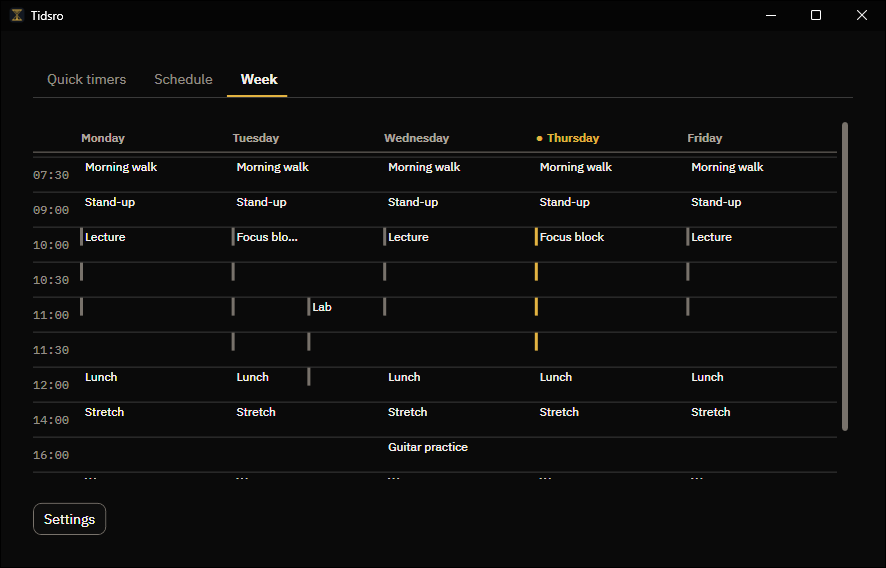
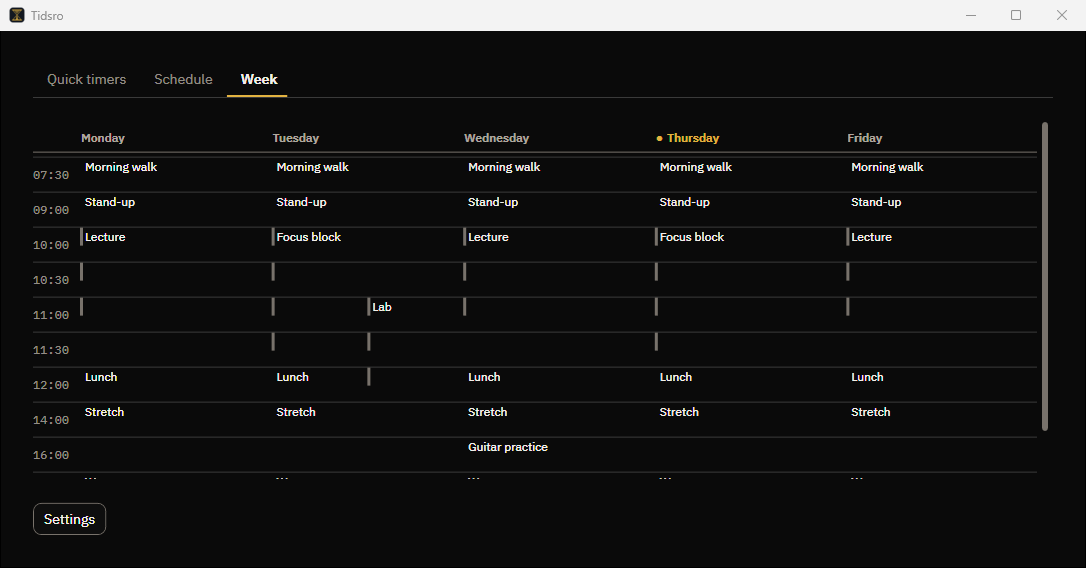
fix: hold a timetable lane to a readable width
Spec section 6 asked for a 90px minimum lane and v2.4.0 shipped without it:
the grid/agenda flip was a flat 760 whatever the week held, so a two-lane
Tuesday at a 900px window gave each lane 76px and drew "Focus blo...". Three
lanes would have left 50.

The threshold is now the week's own: RequiredGridWidth takes the widest day
the grid draws and the number of columns it draws, and asks for 90px per lane
in every one of them -- the columns are a UniformGrid, so the widest day sets
what all of them need. Never below 760, so a week without an overlap flips
exactly where it always did. Below it the agenda draws, which lists every
alarm and reads at any size.

The chrome constant is measured, not guessed: at a 900px window the panel is
822 wide, the gutter takes 46 and the scroll bar 16, leaving 760 for five
columns. The plan's shorthand -- 760 + (lanes-1) * 90 * 5 -- hardcodes five
columns and treats the baseline as if it only afforded 90px lanes, which
overshoots by about 250px and withholds the grid where two lanes do fit.

Driven at four widths against the fixture: two lanes flip to the agenda at
1043 and back to a readable grid at 1044, exactly where the arithmetic says,
and a one-lane week at 900 is untouched. The week screenshot was shot at 900
and would now capture the agenda, so the rig shoots it at 1100.

diff --git a/src/Tidsro/Views/MainWindow.xaml b/src/Tidsro/Views/MainWindow.xaml
@@ -657,8 +657,17 @@
                the exception and always draws, because a week view that silently omits the day you
                are standing in is worse than one empty heading. ShowInAgenda decides that in the
                model, where it is tested, rather than in a converter here. -->
-          <ItemsControl Focusable="False" ItemsSource="{Binding Timetable.Week.Days}"
-                        Visibility="{Binding ActualWidth, ElementName=Panels, Converter={StaticResource WidthToVisible}, ConverterParameter=Narrow}">
+          <ItemsControl Focusable="False" ItemsSource="{Binding Timetable.Week.Days}">
+            <ItemsControl.Visibility>
+              <!-- The grid's width is not a constant: a day with overlapping blocks divides its
+                   column into lanes, and a lane too narrow to hold a label is worse than no grid.
+                   RequiredGridWidth decides, in the model, from the week's own widest day. -->
+              <MultiBinding Converter="{StaticResource WidthToVisible}" ConverterParameter="Narrow">
+                <Binding Path="ActualWidth" ElementName="Panels"/>
+                <Binding Path="Timetable.Week.MaxLaneCount"/>
+                <Binding Path="Timetable.Week.GridColumnCount"/>
+              </MultiBinding>
+            </ItemsControl.Visibility>
             <ItemsControl.ItemContainerStyle>
               <!-- Both setters belong on the container. The name because a Border at the root of a
                    DataTemplate gets no automation peer; the visibility because collapsing an inner
@@ -772,8 +781,15 @@
 
                No arithmetic here: TimetableLayout.Build already decided which row each alarm is
                in, and this draws the rows it was handed. -->
-          <StackPanel Grid.IsSharedSizeScope="True"
-                      Visibility="{Binding ActualWidth, ElementName=Panels, Converter={StaticResource WidthToVisible}, ConverterParameter=Wide}">
+          <StackPanel Grid.IsSharedSizeScope="True">
+            <StackPanel.Visibility>
+              <!-- The other half of the same decision — see the agenda's binding above. -->
+              <MultiBinding Converter="{StaticResource WidthToVisible}" ConverterParameter="Wide">
+                <Binding Path="ActualWidth" ElementName="Panels"/>
+                <Binding Path="Timetable.Week.MaxLaneCount"/>
+                <Binding Path="Timetable.Week.GridColumnCount"/>
+              </MultiBinding>
+            </StackPanel.Visibility>
 
             <!-- Day headers. The same two-column shape as a row, with the gutter column in the same
                  shared-size group, so the headers sit over the columns they name however wide the

diff --git a/tests/Tidsro.Tests/WidthToVisibleConverterTests.cs b/tests/Tidsro.Tests/WidthToVisibleConverterTests.cs
@@ -1,5 +1,6 @@
-using System.Globalization;
+using System.Globalization;
 using System.Windows;
+using Tidsro.Models;
 using Tidsro.Views;
 using Xunit;
 
@@ -7,34 +8,56 @@ namespace Tidsro.Tests;
 
 public class WidthToVisibleConverterTests
 {
-    private static object Convert(object? value, string? parameter) =>
-        new WidthToVisibleConverter().Convert(value, typeof(Visibility), parameter, CultureInfo.InvariantCulture);
+    private const double Base = TimetableLayout.MinimumGridWidth;
+
+    private static object Convert(object width, string? parameter, int lanes = 1, int columns = 5) =>
+        new WidthToVisibleConverter().Convert(
+            new[] { width, lanes, (object)columns }, typeof(Visibility), parameter, CultureInfo.InvariantCulture);
 
     [Fact]
     public void Wide_shows_at_the_threshold()
-        => Assert.Equal(Visibility.Visible, Convert(760d, "Wide"));
+        => Assert.Equal(Visibility.Visible, Convert(Base, "Wide"));
 
     [Fact]
     public void Wide_hides_below_the_threshold()
-        => Assert.Equal(Visibility.Collapsed, Convert(759d, "Wide"));
+        => Assert.Equal(Visibility.Collapsed, Convert(Base - 1, "Wide"));
 
     [Fact]
     public void Narrow_shows_below_the_threshold()
-        => Assert.Equal(Visibility.Visible, Convert(759d, "Narrow"));
+        => Assert.Equal(Visibility.Visible, Convert(Base - 1, "Narrow"));
 
     [Fact]
     public void Narrow_hides_at_the_threshold()
-        => Assert.Equal(Visibility.Collapsed, Convert(760d, "Narrow"));
+        => Assert.Equal(Visibility.Collapsed, Convert(Base, "Narrow"));
+
+    [Fact]
+    public void A_second_lane_raises_the_width_the_grid_asks_for()
+    {
+        // A width that draws a one-lane week draws two lanes at ~70px each, which is a bar with no
+        // label. The agenda lists the same alarms and reads at any width, so it takes over.
+        Assert.Equal(Visibility.Collapsed, Convert(Base, "Wide", lanes: 2));
+        Assert.Equal(Visibility.Visible, Convert(Base, "Narrow", lanes: 2));
+    }
+
+    [Fact]
+    public void The_grid_returns_once_two_lanes_fit()
+    {
+        var needed = TimetableLayout.RequiredGridWidth(2, 5);
+
+        Assert.Equal(Visibility.Visible, Convert(needed, "Wide", lanes: 2));
+        Assert.Equal(Visibility.Collapsed, Convert(needed - 1, "Wide", lanes: 2));
+    }
 
     [Fact]
     public void Exactly_one_side_is_visible_at_any_width()
     {
-        foreach (var width in new[] { 0d, 380d, 759d, 760d, 1200d })
-        {
-            var wide = Convert(width, "Wide");
-            var narrow = Convert(width, "Narrow");
-            Assert.NotEqual(wide, narrow);
-        }
+        foreach (var width in new[] { 0d, 380d, Base - 1, Base, 1200d, 2400d })
+            foreach (var lanes in new[] { 1, 2, 3 })
+            {
+                var wide = Convert(width, "Wide", lanes);
+                var narrow = Convert(width, "Narrow", lanes);
+                Assert.NotEqual(wide, narrow);
+            }
     }
 
     [Fact]
@@ -45,11 +68,27 @@ public class WidthToVisibleConverterTests
     }
 
     [Fact]
+    public void A_binding_that_has_not_produced_values_yet_falls_back_to_narrow()
+    {
+        // MultiBinding hands over DependencyProperty.UnsetValue until every source has resolved.
+        var values = new object[] { DependencyProperty.UnsetValue, DependencyProperty.UnsetValue, DependencyProperty.UnsetValue };
+        var converter = new WidthToVisibleConverter();
+
+        Assert.Equal(
+            Visibility.Visible,
+            converter.Convert(values, typeof(Visibility), "Narrow", CultureInfo.InvariantCulture));
+        Assert.Equal(
+            Visibility.Collapsed,
+            converter.Convert(values, typeof(Visibility), "Wide", CultureInfo.InvariantCulture));
+    }
+
+    [Fact]
     public void An_unknown_parameter_collapses()
-        => Assert.Equal(Visibility.Collapsed, Convert(900d, "Sideways"));
+        => Assert.Equal(Visibility.Collapsed, Convert(2400d, "Sideways"));
 
     [Fact]
     public void ConvertBack_is_not_supported()
         => Assert.Throws<NotSupportedException>(() =>
-            new WidthToVisibleConverter().ConvertBack(Visibility.Visible, typeof(double), "Wide", CultureInfo.InvariantCulture));
+            new WidthToVisibleConverter().ConvertBack(
+                Visibility.Visible, new[] { typeof(double) }, "Wide", CultureInfo.InvariantCulture));
 }

diff --git a/src/Tidsro/Models/TimetableLayout.cs b/src/Tidsro/Models/TimetableLayout.cs
@@ -199,6 +199,25 @@ public sealed record TimetableWeek(
     /// <see cref="Days"/> minus the weekend or nothing at all, so there is no third state to keep
     /// in step.</summary>
     public bool HidesWeekend => GridDays.Count < Days.Count;
+
+    /// <summary>How many columns the wide grid draws. Five on a week with a free weekend, seven
+    /// otherwise — the number a lane's readable width has to be bought in, since every column is the
+    /// same width.</summary>
+    public int GridColumnCount => GridDays.Count;
+
+    /// <summary>The most lanes any drawn column divides itself into, and therefore what decides
+    /// whether the grid still reads. Taken from the days the grid actually draws: a lane count on a
+    /// weekend column that was dropped would ask the window for width nothing spends.</summary>
+    public int MaxLaneCount
+    {
+        get
+        {
+            var most = 1;
+            foreach (var day in GridDays)
+                if (day.LaneCount > most) most = day.LaneCount;
+            return most;
+        }
+    }
 }
 
 /// <summary>
@@ -383,6 +402,40 @@ public static class TimetableLayout
     /// Three keeps a lane readable and keeps a hostile file from becoming a grid with thousands of
     /// columns in every cell. What does not fit is counted, and the agenda still lists all of it.</summary>
     public const int MaxLanes = 3;
+
+    /// <summary>The width the wide grid needs before it is worth drawing at all, with one lane per
+    /// column. Below it the agenda draws instead.</summary>
+    public const double MinimumGridWidth = 760;
+
+    /// <summary>What one lane needs to still show a label rather than an ellipsis. Phase 1 already
+    /// had to keep a time out of a hundred-pixel column for the same reason; splitting that column
+    /// three ways leaves about 33px, which is a bar with no words on it — unreadable first for low
+    /// vision and then for everyone.</summary>
+    public const double MinimumLaneWidth = 90;
+
+    /// <summary>What the grid spends on itself before any column gets a pixel: the time gutter and
+    /// the scroll bar. Measured off the shipped rendering rather than guessed — at a 900px window
+    /// the panel is 822 wide (the window's 32px padding each side), the gutter takes 46 and the
+    /// scroll bar 16, leaving 760 for five columns. The gutter is Auto-width but every label it can
+    /// hold is "HH:MM", so it does not move.</summary>
+    public const double GridChromeWidth = 64;
+
+    /// <summary>How wide the panel has to be before the grid is worth drawing at this many lanes.
+    /// Every column is the same width, so the widest day sets what all of them need: the columns
+    /// share what is left after the chrome, and each has to fit its lanes at
+    /// <see cref="MinimumLaneWidth"/> apiece. Below that the agenda takes over — it lists every
+    /// alarm and reads at any size, which is why it is the right thing to fall back to.
+    ///
+    /// <para>The lane count is clamped to <see cref="MaxLanes"/> because that is all the grid ever
+    /// draws: a hand-edited file with fifty overlapping alarms must not be able to ask for a window
+    /// no monitor has. Never below <see cref="MinimumGridWidth"/>, so a week without a single
+    /// overlap flips exactly where it always did. Pure, and here rather than in the converter for
+    /// the reason all the layout arithmetic is here — this is where tests reach it.</para></summary>
+    public static double RequiredGridWidth(int laneCount, int columnCount) =>
+        Math.Max(
+            MinimumGridWidth,
+            GridChromeWidth
+            + Math.Max(columnCount, 0) * Math.Clamp(laneCount, 1, MaxLanes) * MinimumLaneWidth);
 
     /// <summary>Whether this entry is happening now. Start inclusive, end exclusive, so a block that
     /// ends at 10:30 stops being current the moment 10:30 arrives and the next one can take over

diff --git a/src/Tidsro/Views/Converters.cs b/src/Tidsro/Views/Converters.cs
@@ -96,15 +96,27 @@ public sealed class WidthToMeasureConverter : IValueConverter
 /// The Week tab draws an agenda when narrow and a seven-column grid when wide; both panels exist,
 /// and this collapses the one that does not fit. Same mechanism as IndexToVisibleConverter, which
 /// already swaps the tab panels, and it reads the same ActualWidth WidthToMeasureConverter does.
-/// A width WPF has not measured yet arrives as NaN — that falls back to Narrow, which is the
-/// rendering that works at any size.</summary>
-public sealed class WidthToVisibleConverter : IValueConverter
+///
+/// <para>The width the grid asks for is not a constant: a day whose blocks overlap divides its
+/// column into lanes, and a lane that has shrunk to a bar with no label is worse than no grid at
+/// all. So the threshold is <see cref="TimetableLayout.RequiredGridWidth"/> of the week's own
+/// widest day, and a window too narrow for those lanes shows the agenda — which lists every alarm
+/// and reads at any size.</para>
+///
+/// <para>A multi-value converter for the same reason LaneBarStateConverter is one: the answer needs
+/// the width and the shape of the week, and only the width changes while the window is open. It
+/// carries no rule of its own. Anything the bindings have not resolved yet — an unmeasured
+/// ActualWidth arrives as NaN, an unready MultiBinding source as UnsetValue — falls back to Narrow,
+/// which is the rendering that works at any size.</para></summary>
+public sealed class WidthToVisibleConverter : IMultiValueConverter
 {
-    public const double Threshold = 760;
-
-    public object Convert(object? v, Type t, object? p, CultureInfo c)
+    public object Convert(object[] values, Type t, object? p, CultureInfo c)
     {
-        var wide = v is double available && !double.IsNaN(available) && available >= Threshold;
+        var available = values is [double w, ..] ? w : double.NaN;
+        var lanes = values is [_, int l, ..] ? l : 1;
+        var columns = values is [_, _, int n, ..] ? n : 0;
+
+        var wide = !double.IsNaN(available) && available >= TimetableLayout.RequiredGridWidth(lanes, columns);
         return p switch
         {
             "Wide" => wide ? Visibility.Visible : Visibility.Collapsed,
@@ -113,7 +125,7 @@ public sealed class WidthToVisibleConverter : IValueConverter
         };
     }
 
-    public object ConvertBack(object? v, Type t, object? p, CultureInfo c) => throw new NotSupportedException();
+    public object[] ConvertBack(object v, Type[] t, object? p, CultureInfo c) => throw new NotSupportedException();
 }
 
 /// <summary>What a lane's bar should look like: "None" for a band holding only instants, "Block" for

diff --git a/tests/Tidsro.Tests/TimetableLayoutTests.cs b/tests/Tidsro.Tests/TimetableLayoutTests.cs
@@ -874,4 +874,75 @@ public class TimetableLayoutTests
         // The grid caps; the agenda is a list and hides nothing.
         Assert.Equal(50, week.Days[0].Entries.Count);
     }
+
+    // ---- Readable lane width -------------------------------------------------------------
+
+    [Fact]
+    public void A_week_of_instants_asks_for_no_more_than_the_base_width()
+    {
+        var week = TimetableLayout.Build(new[] { Recurring(9, 0, Weekdays.Mon) }, At(5, 8, 0));
+
+        Assert.Equal(1, week.MaxLaneCount);
+        Assert.Equal(
+            TimetableLayout.MinimumGridWidth,
+            TimetableLayout.RequiredGridWidth(week.MaxLaneCount, week.GridColumnCount));
+    }
+
+    [Fact]
+    public void An_empty_week_asks_for_no_more_than_the_base_width()
+    {
+        var week = TimetableLayout.Build(Array.Empty<TimerItem>(), At(5, 8, 0));
+
+        Assert.Equal(1, week.MaxLaneCount);
+    }
+
+    [Fact]
+    public void MaxLaneCount_is_the_widest_day_the_grid_draws()
+    {
+        var week = TimetableLayout.Build(
+            new[]
+            {
+                Block(9, 0, 630, Weekdays.Mon),
+                Block(9, 30, 660, Weekdays.Mon, "Lab"),
+                Block(14, 0, 900, Weekdays.Tue, "Seminar"),
+            },
+            At(5, 8, 0));
+
+        Assert.Equal(2, week.MaxLaneCount);
+        Assert.Equal(5, week.GridColumnCount);
+    }
+
+    [Fact]
+    public void At_the_width_it_asks_for_a_lane_is_exactly_readable()
+    {
+        // Every column is the same width, so the widest day sets what all of them need.
+        foreach (var (lanes, columns) in new[] { (2, 5), (2, 7), (3, 5), (3, 7) })
+        {
+            var columnsGet = TimetableLayout.RequiredGridWidth(lanes, columns) - TimetableLayout.GridChromeWidth;
+
+            Assert.Equal(TimetableLayout.MinimumLaneWidth, columnsGet / (columns * lanes));
+        }
+    }
+
+    [Fact]
+    public void A_week_without_an_overlap_flips_exactly_where_it_always_did()
+    {
+        foreach (var columns in new[] { 5, 7 })
+            Assert.Equal(TimetableLayout.MinimumGridWidth, TimetableLayout.RequiredGridWidth(1, columns));
+    }
+
+    [Fact]
+    public void The_width_asked_for_stops_at_the_lane_cap()
+    {
+        // A hand-edited file cannot ask for a wider window than the grid would ever draw.
+        Assert.Equal(
+            TimetableLayout.RequiredGridWidth(TimetableLayout.MaxLanes, 5),
+            TimetableLayout.RequiredGridWidth(50, 5));
+    }
+
+    [Fact]
+    public void A_grid_with_no_columns_still_asks_for_the_base_width()
+    {
+        Assert.Equal(TimetableLayout.MinimumGridWidth, TimetableLayout.RequiredGridWidth(1, 0));
+    }
 }
